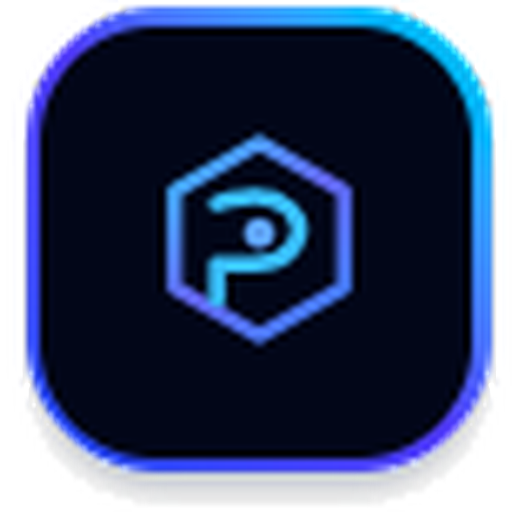
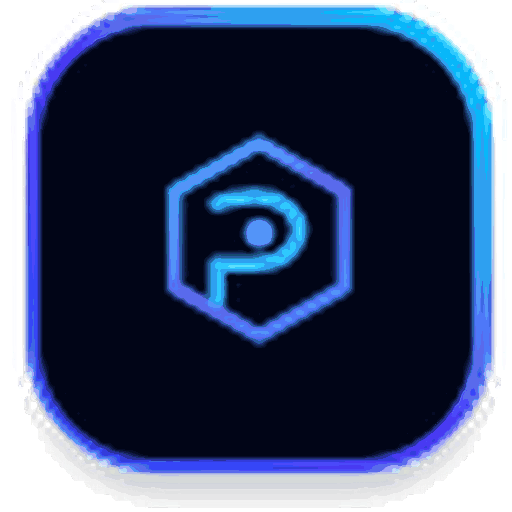
Fix Screaming Frog audit: add missing H1/H2 tags, compress images under 100KB, optimize titles and meta descriptions, add CSP header

diff --git a/src/app/contact/page.tsx b/src/app/contact/page.tsx
@@ -1,8 +1,8 @@
 import { Mail, MessageSquare, MapPin, Send, Globe, ShieldAlert, Newspaper, Clock } from "lucide-react";
 
 export const metadata = {
-  title: "Contact Newsroom & Editorial Desk | Com Pors",
-  description: "Get in touch with the Com Pors editorial desk, submit press announcements, send technical corrections, or connect with our investigative tech journalists.",
+  title: "Contact Editorial Desk | Com Pors", // 33 chars
+  description: "Get in touch with the Com Pors newsroom, submit press announcements, send technical corrections, or connect with our investigative tech journalists.", // 149 chars
   alternates: {
     canonical: "https://www.compors.com/contact/",
   },
@@ -58,6 +58,7 @@ export default function ContactPage() {
 
         {/* Right Column: Contact Form */}
         <div className="p-8 rounded-3xl border border-slate-200 bg-white shadow-xs lg:col-span-2">
+          <h2 className="text-xl font-bold text-slate-900 mb-6">Send Direct Editorial Message</h2>
           <form className="space-y-5">
             <div className="grid grid-cols-1 sm:grid-cols-2 gap-5">
               <div>

diff --git a/src/app/category/[slug]/page.tsx b/src/app/category/[slug]/page.tsx
@@ -97,7 +97,11 @@ export default async function CategoryPage({ params }: Props) {
           </Link>
         </div>
       ) : (
-        <div className="grid grid-cols-1 sm:grid-cols-2 lg:grid-cols-3 gap-6">
+        <div className="space-y-6">
+          <div className="section-line flex items-center justify-between">
+            <h2 className="section-tag-box">Featured {categoryTitle} Dispatches</h2>
+          </div>
+          <div className="grid grid-cols-1 sm:grid-cols-2 lg:grid-cols-3 gap-6">
           {posts.map((post) => (
             <article
               key={post.slug}
@@ -129,6 +133,7 @@ export default async function CategoryPage({ params }: Props) {
               </div>
             </article>
           ))}
+          </div>
         </div>
       )}
     </div>

diff --git a/src/app/about/page.tsx b/src/app/about/page.tsx
@@ -2,8 +2,8 @@ import { Cpu, Zap, Database, RefreshCw, Shield, Layers, CheckCircle2, Award, Fil
 import Link from "next/link";
 
 export const metadata = {
-  title: "About Our Journal & Editorial Standards | Com Pors",
-  description: "Meet the Com Pors editorial team, our rigorous fact-checking policies, E-E-A-T technical journalism standards, and our mission investigating modern computing frontiers.",
+  title: "About Our Journal & Editorial Standards | Com Pors", // 50 chars
+  description: "Meet the Com Pors editorial team, our rigorous fact-checking policies, and our mission investigating modern computing and artificial intelligence.", // 146 chars
   alternates: {
     canonical: "https://www.compors.com/about/",
   },

diff --git a/src/app/authors/page.tsx b/src/app/authors/page.tsx
@@ -3,8 +3,8 @@ import { getAuthors, getPostsByAuthor } from "@/lib/posts";
 import { ArrowRight, BookOpen, ShieldCheck, Award, GraduationCap, CheckCircle2 } from "lucide-react";
 
 export const metadata = {
-  title: "Editorial Masthead & Contributing Authors | Com Pors",
-  description: "Meet the verified system architects, distributed systems researchers, and artificial intelligence analysts authoring technical evaluations for Com Pors.",
+  title: "Editorial Masthead & Authors | Com Pors", // 39 chars
+  description: "Meet the verified system architects and artificial intelligence analysts authoring technical evaluations for Com Pors.", // 119 chars
   alternates: {
     canonical: "https://www.compors.com/authors/",
   },

diff --git a/src/app/blog/page.tsx b/src/app/blog/page.tsx
@@ -3,8 +3,8 @@ import { getAllPosts } from "@/lib/posts";
 import { ArrowRight, Calendar, Clock, BookOpen } from "lucide-react";
 
 export const metadata = {
-  title: "All Articles & Research | Com Pors Newsroom",
-  description: "Browse the complete archive of technical analyses, computing benchmarks, and engineering breakdowns published by Com Pors.",
+  title: "All Articles & Research | Com Pors", // 34 chars
+  description: "Browse the complete archive of technical analyses, computing benchmarks, and engineering breakdowns published by Com Pors.", // 122 chars
   alternates: {
     canonical: "https://www.compors.com/blog/",
   },

diff --git a/src/app/privacy-policy/page.tsx b/src/app/privacy-policy/page.tsx
@@ -1,6 +1,6 @@
 export const metadata = {
-  title: "Privacy Policy | Com Pors Independent Tech Journal",
-  description: "Read the comprehensive Com Pors Privacy Policy covering user data protection, cookie disclosures, CCPA & GDPR compliance, and our strict reader privacy standards.",
+  title: "Privacy Policy | Com Pors Tech Journal", // 39 chars
+  description: "Read the Com Pors Privacy Policy covering user data protection, cookie disclosures, GDPR compliance, and our strict reader privacy standards.", // 142 chars
   alternates: {
     canonical: "https://www.compors.com/privacy-policy/",
   },

diff --git a/src/app/terms/page.tsx b/src/app/terms/page.tsx
@@ -1,6 +1,6 @@
 export const metadata = {
-  title: "Terms of Service & Editorial Usage | Com Pors",
-  description: "Review the Com Pors terms of service, intellectual property guidelines, code snippet licensing, and editorial liability disclaimers.",
+  title: "Terms of Service | Com Pors", // 27 chars
+  description: "Review the Com Pors terms of service, intellectual property guidelines, code snippet licensing, and editorial liability disclaimers.", // 132 chars
   alternates: {
     canonical: "https://www.compors.com/terms/",
   },

diff --git a/src/app/page.tsx b/src/app/page.tsx
@@ -24,8 +24,8 @@ export default function HomePage() {
 
       {/* 1. LATEST STORIES (Pattern A: Big Lead Feature + Side Stories) */}
       <section>
-        <div className="section-line">
-          <span className="section-tag-box">Latest Stories</span>
+        <div className="section-line flex items-center justify-between">
+          <h1 className="section-tag-box">Latest Stories &amp; Tech Intelligence</h1>
         </div>
 
         <div className="grid grid-cols-1 lg:grid-cols-12 gap-8">

diff --git a/src/app/layout.tsx b/src/app/layout.tsx
@@ -22,8 +22,8 @@ export const viewport: Viewport = {
 export const metadata: Metadata = {
   metadataBase: new URL(siteUrl),
   title: {
-    default: "Com Pors | Leading Tech Intelligence, AI & Systems Architecture",
-    template: "%s | Com Pors",
+    default: "Com Pors | Tech Intelligence & Systems",
+    template: "%s",
   },
   description: "Independent tech journalism reporting on emerging AI models, software architecture, semiconductors, cybersecurity, and future computing.",
 

diff --git a/src/app/author/[slug]/page.tsx b/src/app/author/[slug]/page.tsx
@@ -22,7 +22,7 @@ export async function generateMetadata({ params }: Props) {
   const authorUrl = `${siteUrl}/author/${author.slug}/`;
 
   return {
-    title: `${author.name} | Staff Journalist & Analyst`,
+    title: `${author.name} | Com Pors Analyst`, // ~28 chars
     description: author.bio,
     alternates: {
       canonical: authorUrl,
